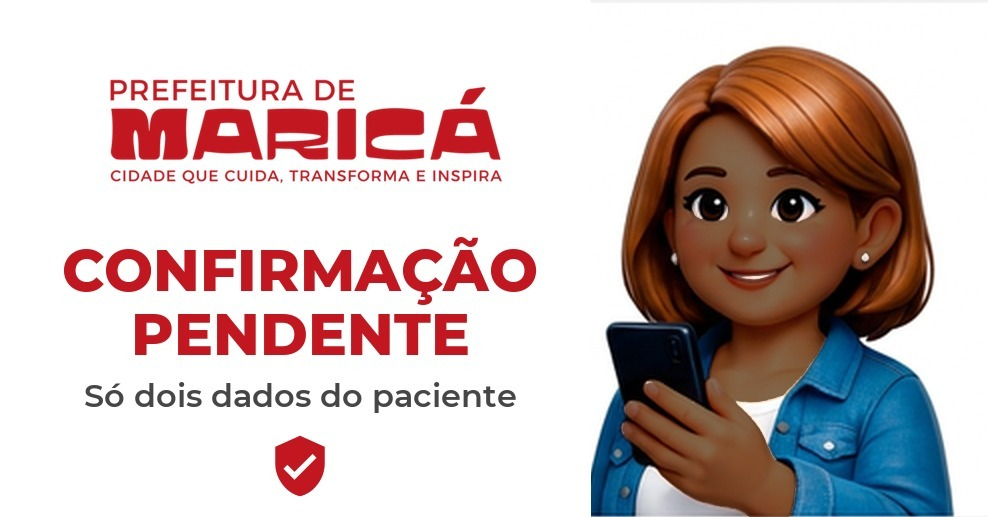
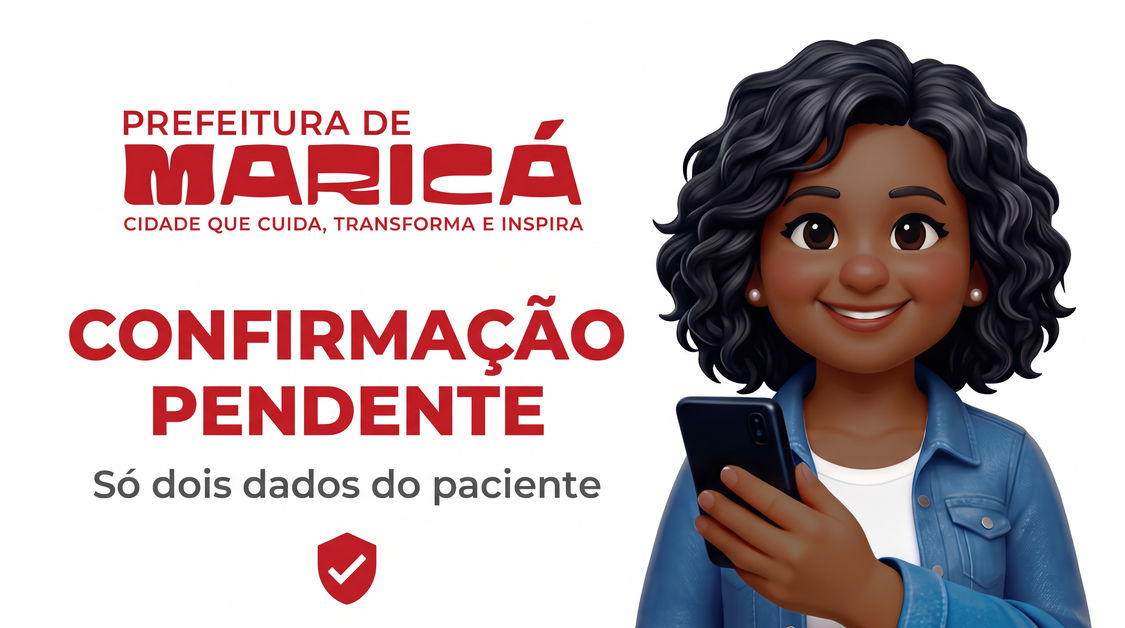
feat(whatsapp): artes do cabeçalho com a personagem Maria (v1.1.41)
Todas as artes das mensagens automáticas trocadas pela personagem Maria
(cabelo preto cacheado), geradas a partir da referência aprovada. Padrão
único: JPEG 1125x628, até 100 KB; a mais enviada (consultas e exames)
deixa de ser a de 494 px.

A arte de cada modelo agora é escolhida no painel do Automais.Zap
(Templates): os 13 modelos com foto no cabeçalho já estão com a arte nova
lá desde 22/10. As cópias em public/mensagens ficam como reserva para
quando o catálogo do Zap não responde.

Saem do app as seis artes que nenhum modelo usava: as três variações de
cancelamento não escolhidas e a outra cor de cada momento do transporte
(agendado e véspera ficaram na vermelha, cancelado na branca).

Docs do transporte e da confirmação atualizados; no Manual, a dica de
"modelo com imagem sem arte" passa a apontar para o painel do Zap.

diff --git a/docs/modulos/tfd/mensagens-whatsapp.html b/docs/modulos/tfd/mensagens-whatsapp.html
@@ -29,13 +29,13 @@ img{max-width:100%;height:auto;border-radius:8px;border:1px solid var(--border);
 <h1>Transporte de Pacientes — modelos de mensagem do WhatsApp</h1>
 <p>Seis modelos cadastrados e <strong>aprovados</strong> na Meta em 29/09/2026 (WABA da Secretaria de Saúde de Maricá): três momentos do transporte, cada um em duas versões — <strong>completa</strong> (número já verificado) e <strong>sem dados do paciente</strong> (número ainda não verificado). O envio automático ainda não está ligado no sistema; este documento é a referência do que foi cadastrado, para a implementação.</p>
 <h2>Situação na Meta</h2>
-<div class="tw"><table><thead><tr><th>Modelo</th><th>Status</th><th>Arte cadastrada</th><th>Rodapé</th></tr></thead><tbody>
-<tr><td><code>transporte_agendado_anonimo</code></td><td>aprovado</td><td>vermelha</td><td>sim</td></tr>
-<tr><td><code>transporte_agendado</code></td><td>aprovado</td><td>branca</td><td>sim</td></tr>
-<tr><td><code>transporte_horario_anonimo</code></td><td>aprovado</td><td>vermelha</td><td>não</td></tr>
-<tr><td><code>transporte_horario</code></td><td>aprovado</td><td>branca</td><td>sim</td></tr>
-<tr><td><code>transporte_cancelado_anonimo</code></td><td>aprovado</td><td>branca</td><td>sim</td></tr>
-<tr><td><code>transporte_cancelado</code></td><td>aprovado</td><td>vermelha</td><td>sim</td></tr>
+<div class="tw"><table><thead><tr><th>Modelo</th><th>Status</th><th>Arte cadastrada (amostra)</th><th>Arte que vai no envio</th><th>Rodapé</th></tr></thead><tbody>
+<tr><td><code>transporte_agendado_anonimo</code></td><td>aprovado</td><td>vermelha</td><td>vermelha</td><td>sim</td></tr>
+<tr><td><code>transporte_agendado</code></td><td>aprovado</td><td>branca</td><td>vermelha</td><td>sim</td></tr>
+<tr><td><code>transporte_horario_anonimo</code></td><td>aprovado</td><td>vermelha</td><td>vermelha</td><td>não</td></tr>
+<tr><td><code>transporte_horario</code></td><td>aprovado</td><td>branca</td><td>vermelha</td><td>sim</td></tr>
+<tr><td><code>transporte_cancelado_anonimo</code></td><td>aprovado</td><td>branca</td><td>branca</td><td>sim</td></tr>
+<tr><td><code>transporte_cancelado</code></td><td>aprovado</td><td>vermelha</td><td>branca</td><td>sim</td></tr>
 </tbody></table></div>
 <p>Todos: categoria <strong>Utilidade</strong>, idioma <strong>Português (BR)</strong>, cabeçalho de <strong>imagem</strong>, botões de <strong>resposta rápida</strong>. Rodapé (quando há): <code>Para mais informações acesse: https://app.smsmarica.online</code>.</p>
 <h2>Quem recebe o quê</h2>
@@ -52,7 +52,7 @@ img{max-width:100%;height:auto;border-radius:8px;border:1px solid var(--border);
 <hr>
 <h2>1. <code>transporte_agendado_anonimo</code> — agendado, sem dados do paciente</h2>
 <p>Quando o transporte é marcado e o número <strong>não</strong> é verificado. <strong>Aprovado.</strong></p>
-<p><strong>Cabeçalho (imagem):</strong> <code>transporte-agendado-vermelho.jpg</code></p>
+<p><strong>Cabeçalho (imagem):</strong> amostra cadastrada <code>transporte-agendado-vermelho.jpg</code> · no envio vai <code>transporte-agendado-vermelho.jpg</code> (escolhida no Automais.Zap)</p>
 <p><strong>Corpo:</strong></p>
 <pre><code>Olá *{{1}}*, esse é o canal oficial do *Alô Maricá* da Secretaria Municipal de Saúde.
 
@@ -69,7 +69,7 @@ Para ver os detalhes e confirmar se você vai utilizar o transporte, toque em *Q
 <hr>
 <h2>2. <code>transporte_agendado</code> — agendado, completo</h2>
 <p>Quando o transporte é marcado e o número <strong>é</strong> verificado (ou logo depois que a pessoa se verifica). <strong>Aprovado.</strong></p>
-<p><strong>Cabeçalho (imagem):</strong> <code>transporte-agendado-branco.jpg</code></p>
+<p><strong>Cabeçalho (imagem):</strong> amostra cadastrada <code>transporte-agendado-branco.jpg</code> · no envio vai <code>transporte-agendado-vermelho.jpg</code> (escolhida no Automais.Zap)</p>
 <p><strong>Corpo:</strong></p>
 <pre><code>Olá *{{1}}*, esse é o canal oficial do *Alô Maricá* da Secretaria Municipal de Saúde.
 
@@ -90,7 +90,7 @@ Você vai utilizar o transporte? Toque em um dos botões abaixo.</code></pre>
 <hr>
 <h2>3. <code>transporte_horario_anonimo</code> — véspera, sem dados do paciente</h2>
 <p>Um dia antes, com a rota gerada, quando o número <strong>ainda não</strong> é verificado. <strong>Aprovado.</strong></p>
-<p><strong>Cabeçalho (imagem):</strong> <code>transporte-horario-vermelho.jpg</code></p>
+<p><strong>Cabeçalho (imagem):</strong> amostra cadastrada <code>transporte-horario-vermelho.jpg</code> · no envio vai <code>transporte-horario-vermelho.jpg</code> (escolhida no Automais.Zap)</p>
 <p><strong>Corpo:</strong></p>
 <pre><code>Olá *{{1}}*, esse é o canal oficial do *Alô Maricá* da Secretaria Municipal de Saúde.
 
@@ -105,7 +105,7 @@ Para ver a previsão de busca e de retorno e confirmar se você vai utilizar o t
 <hr>
 <h2>4. <code>transporte_horario</code> — véspera, completo</h2>
 <p>Um dia antes, com a rota gerada, para número verificado. <strong>Aprovado.</strong></p>
-<p><strong>Cabeçalho (imagem):</strong> <code>transporte-horario-branco.jpg</code></p>
+<p><strong>Cabeçalho (imagem):</strong> amostra cadastrada <code>transporte-horario-branco.jpg</code> · no envio vai <code>transporte-horario-vermelho.jpg</code> (escolhida no Automais.Zap)</p>
 <p><strong>Corpo:</strong></p>
 <pre><code>Olá *{{1}}*, esse é o canal oficial do *Alô Maricá* da Secretaria Municipal de Saúde.
 
@@ -137,7 +137,7 @@ Você vai utilizar o transporte? Toque em um dos botões abaixo.</code></pre>
 <hr>
 <h2>5. <code>transporte_cancelado_anonimo</code> — cancelado, sem dados do paciente</h2>
 <p>Quando a Secretaria cancela o transporte e o número <strong>não</strong> é verificado. <strong>Aprovado.</strong></p>
-<p><strong>Cabeçalho (imagem):</strong> <code>transporte-cancelado-branco.jpg</code></p>
+<p><strong>Cabeçalho (imagem):</strong> amostra cadastrada <code>transporte-cancelado-branco.jpg</code> · no envio vai <code>transporte-cancelado-branco.jpg</code> (escolhida no Automais.Zap)</p>
 <p><strong>Corpo:</strong></p>
 <pre><code>Olá *{{1}}*, esse é o canal oficial do *Alô Maricá* da Secretaria Municipal de Saúde.
 
@@ -152,7 +152,7 @@ Para ver os detalhes, toque em *Quero mais informações*.</code></pre>
 <hr>
 <h2>6. <code>transporte_cancelado</code> — cancelado, completo</h2>
 <p>Quando a Secretaria cancela o transporte e o número <strong>é</strong> verificado. <strong>Aprovado.</strong></p>
-<p><strong>Cabeçalho (imagem):</strong> <code>transporte-cancelado-vermelho.jpg</code></p>
+<p><strong>Cabeçalho (imagem):</strong> amostra cadastrada <code>transporte-cancelado-vermelho.jpg</code> · no envio vai <code>transporte-cancelado-branco.jpg</code> (escolhida no Automais.Zap)</p>
 <p><strong>Corpo:</strong></p>
 <pre><code>Olá *{{1}}*, esse é o canal oficial do *Alô Maricá* da Secretaria Municipal de Saúde.
 
@@ -168,14 +168,15 @@ Comunicamos que o seu transporte de *{{2}}* para realizar *{{3}}* na unidade *{{
 <p><strong>Botões (resposta rápida):</strong> <code>Estou ciente</code> · <code>Quero mais informações</code></p>
 <hr>
 <h2>Artes do cabeçalho</h2>
-<p>Ficam em <code>SMSMais.cidadao.pwa/public/mensagens/</code>, junto das artes das consultas e exames (mesma personagem, mesma logo, mesma fonte). JPEG, 90–100 KB cada. Cada momento tem versão vermelha e branca; a tabela do início diz qual foi usada no cadastro de cada modelo.</p>
-<p>⚠ <strong>A arte do cadastro é só amostra.</strong> Modelo com foto no cabeçalho exige a imagem em <strong>cada envio</strong> (sem ela a Meta recusa com <code>(#132012)</code>), e o paciente vê a imagem que foi <strong>enviada</strong>, não a do cadastro. A cor que chega ao celular é decidida no envio — dá para padronizar sem recadastrar.</p>
-<p><strong>Transporte agendado</strong> — <code>transporte-agendado-vermelho.jpg</code> · <code>transporte-agendado-branco.jpg</code></p>
-<p><img alt="Transporte agendado, vermelho" src="../../../SMSMais.cidadao.pwa/public/mensagens/transporte-agendado-vermelho.jpg"> <img alt="Transporte agendado, branco" src="../../../SMSMais.cidadao.pwa/public/mensagens/transporte-agendado-branco.jpg"></p>
-<p><strong>Véspera — horário</strong> — <code>transporte-horario-vermelho.jpg</code> · <code>transporte-horario-branco.jpg</code></p>
-<p><img alt="Horário do transporte, vermelho" src="../../../SMSMais.cidadao.pwa/public/mensagens/transporte-horario-vermelho.jpg"> <img alt="Horário do transporte, branco" src="../../../SMSMais.cidadao.pwa/public/mensagens/transporte-horario-branco.jpg"></p>
-<p><strong>Transporte cancelado</strong> — <code>transporte-cancelado-vermelho.jpg</code> · <code>transporte-cancelado-branco.jpg</code></p>
-<p><img alt="Transporte cancelado, vermelho" src="../../../SMSMais.cidadao.pwa/public/mensagens/transporte-cancelado-vermelho.jpg"> <img alt="Transporte cancelado, branco" src="../../../SMSMais.cidadao.pwa/public/mensagens/transporte-cancelado-branco.jpg"></p>
+<p>Desde 22/10/2026 as artes são da personagem <strong>Maria</strong>, as mesmas das consultas e exames. São JPEG de 1125×628 com até 100 KB. Ficou <strong>uma cor por momento</strong>, e as duas versões de cada modelo (completa e sem dados) usam a mesma arte: agendado e véspera na vermelha, cancelado na branca.</p>
+<p><strong>Quem manda é o painel do Automais.Zap</strong> (Templates): os seis modelos já estão com a arte escolhida lá. Uma cópia de cada arte fica em <code>SMSMais.cidadao.pwa/public/mensagens/</code>, como reserva para quando o catálogo do Zap não responde. As versões na outra cor, também já com a Maria, saíram do app. Hoje elas ficam só na cópia local de trabalho de <code>docs/comunicacao/</code>, que não está no git.</p>
+<p>⚠ <strong>A arte do cadastro é só amostra.</strong> Modelo com foto no cabeçalho exige a imagem em <strong>cada envio</strong> (sem ela a Meta recusa com <code>(#132012)</code>), e o paciente vê a imagem que foi <strong>enviada</strong>, não a do cadastro. Por isso a cor que chega ao celular é a do Zap, e trocar não exige recadastrar.</p>
+<p><strong>Transporte agendado</strong> (<code>transporte_agendado</code> e <code>transporte_agendado_anonimo</code>): <code>transporte-agendado-vermelho.jpg</code></p>
+<p><img alt="Transporte agendado" src="../../../SMSMais.cidadao.pwa/public/mensagens/transporte-agendado-vermelho.jpg"></p>
+<p><strong>Véspera, com horário</strong> (<code>transporte_horario</code> e <code>transporte_horario_anonimo</code>): <code>transporte-horario-vermelho.jpg</code></p>
+<p><img alt="Horário do transporte" src="../../../SMSMais.cidadao.pwa/public/mensagens/transporte-horario-vermelho.jpg"></p>
+<p><strong>Transporte cancelado</strong> (<code>transporte_cancelado</code> e <code>transporte_cancelado_anonimo</code>): <code>transporte-cancelado-branco.jpg</code></p>
+<p><img alt="Transporte cancelado" src="../../../SMSMais.cidadao.pwa/public/mensagens/transporte-cancelado-branco.jpg"></p>
 <h2>Escolhas de texto</h2>
 <ul>
 <li><strong>"agendado", não "confirmado", na primeira mensagem.</strong> "Seu transporte está confirmado" seguido de "confirme se vai utilizar" leva a pessoa a achar que não precisa responder. "Agendado" pede a confirmação com naturalidade — é o mesmo desenho do "Seu exame foi agendado!".</li>
@@ -185,7 +186,7 @@ Comunicamos que o seu transporte de *{{2}}* para realizar *{{3}}* na unidade *{{
 </ul>
 <h2>Para a implementação</h2>
 <ul>
-<li><strong>A imagem de cada modelo tem de estar no mapa <code>ComunicacaoPaciente:ImagensCabecalho</code></strong> (appsettings). O catálogo do relay (<code>GET /comunicacoes-paciente/modelos</code>) não informa o cabeçalho de nenhum modelo hoje — os de consulta e exame só funcionam porque estão nesse mapa. Sem a entrada, o envio volta <code>(#132012)</code>.</li>
+<li><strong>A arte já está resolvida.</strong> O catálogo do Automais.Zap informa o cabeçalho de cada modelo e entrega a arte escolhida no painel. Os seis modelos do transporte estão com arte lá desde 22/10/2026. O mapa <code>ComunicacaoPaciente:ImagensCabecalho</code> é só reserva, para quando o catálogo não responde. Modelo que exige foto e não tem arte em lugar nenhum tem o envio recusado antes da Meta, com o motivo registrado.</li>
 <li><strong>De onde vem cada dado:</strong> busca = <code>SessaoDeTratamento.HoraPrevistaBusca</code> / <code>Alocacao.EtaPrevisto</code> (o atendimento não tem horário: vem do arranjo do carro); trajeto = duração da rota até a unidade; retorno = chegada + <code>TipoTratamento.TempoMedioMinutos</code> (o tempo médio é do tipo) + trajeto de volta; unidade e cidade = <code>UnidadeAtendimento</code>; veículo = <code>Veiculo</code> (modelo, cor, placa); motorista = <code>RotaDiaria.Motorista</code>; acompanhantes = <code>SessaoDeTratamento.Acompanhantes</code> (lista do paciente).</li>
 <li><strong>Botões chegam como TEXTO</strong> (resposta rápida sem payload), casados pelo contexto da mensagem respondida:</li>
 <li><em>Sim! Confirmo a utilização</em> (agendado) e <em>Sim! Quero o transporte</em> (véspera) → confirma o transporte;</li>

diff --git a/SMSMais.front/src/features/manual/conteudo/envioMensagens.tsx b/SMSMais.front/src/features/manual/conteudo/envioMensagens.tsx
@@ -613,7 +613,7 @@ export const artigoEnvioMensagens: Artigo = {
               },
               {
                 termo: 'Modelo com imagem sem arte',
-                descricao: 'Recusado antes da Meta: a arte do cabeçalho se define em Mensageria → Modelos.',
+                descricao: 'Recusado antes da Meta: a arte do cabeçalho se escolhe no painel do Automais.Zap, em Templates.',
               },
             ]}
           />

diff --git a/docs/modulos/tfd/mensagens-whatsapp.md b/docs/modulos/tfd/mensagens-whatsapp.md
@@ -7,14 +7,14 @@ documento é a referência do que foi cadastrado, para a implementação.
 
 ## Situação na Meta
 
-| Modelo | Status | Arte cadastrada | Rodapé |
-|---|---|---|---|
-| `transporte_agendado_anonimo` | aprovado | vermelha | sim |
-| `transporte_agendado` | aprovado | branca | sim |
-| `transporte_horario_anonimo` | aprovado | vermelha | não |
-| `transporte_horario` | aprovado | branca | sim |
-| `transporte_cancelado_anonimo` | aprovado | branca | sim |
-| `transporte_cancelado` | aprovado | vermelha | sim |
+| Modelo | Status | Arte cadastrada (amostra) | Arte que vai no envio | Rodapé |
+|---|---|---|---|---|
+| `transporte_agendado_anonimo` | aprovado | vermelha | vermelha | sim |
+| `transporte_agendado` | aprovado | branca | vermelha | sim |
+| `transporte_horario_anonimo` | aprovado | vermelha | vermelha | não |
+| `transporte_horario` | aprovado | branca | vermelha | sim |
+| `transporte_cancelado_anonimo` | aprovado | branca | branca | sim |
+| `transporte_cancelado` | aprovado | vermelha | branca | sim |
 
 Todos: categoria **Utilidade**, idioma **Português (BR)**, cabeçalho de **imagem**, botões de
 **resposta rápida**. Rodapé (quando há): `Para mais informações acesse: https://app.smsmarica.online`.
@@ -37,7 +37,7 @@ Todos: categoria **Utilidade**, idioma **Português (BR)**, cabeçalho de **imag
 
 Quando o transporte é marcado e o número **não** é verificado. **Aprovado.**
 
-**Cabeçalho (imagem):** `transporte-agendado-vermelho.jpg`
+**Cabeçalho (imagem):** amostra cadastrada `transporte-agendado-vermelho.jpg` · no envio vai `transporte-agendado-vermelho.jpg` (escolhida no Automais.Zap)
 
 **Corpo:**
 
@@ -65,7 +65,7 @@ Para ver os detalhes e confirmar se você vai utilizar o transporte, toque em *Q
 
 Quando o transporte é marcado e o número **é** verificado (ou logo depois que a pessoa se verifica). **Aprovado.**
 
-**Cabeçalho (imagem):** `transporte-agendado-branco.jpg`
+**Cabeçalho (imagem):** amostra cadastrada `transporte-agendado-branco.jpg` · no envio vai `transporte-agendado-vermelho.jpg` (escolhida no Automais.Zap)
 
 **Corpo:**
 
@@ -97,7 +97,7 @@ Você vai utilizar o transporte? Toque em um dos botões abaixo.
 
 Um dia antes, com a rota gerada, quando o número **ainda não** é verificado. **Aprovado.**
 
-**Cabeçalho (imagem):** `transporte-horario-vermelho.jpg`
+**Cabeçalho (imagem):** amostra cadastrada `transporte-horario-vermelho.jpg` · no envio vai `transporte-horario-vermelho.jpg` (escolhida no Automais.Zap)
 
 **Corpo:**
 
@@ -123,7 +123,7 @@ Para ver a previsão de busca e de retorno e confirmar se você vai utilizar o t
 
 Um dia antes, com a rota gerada, para número verificado. **Aprovado.**
 
-**Cabeçalho (imagem):** `transporte-horario-branco.jpg`
+**Cabeçalho (imagem):** amostra cadastrada `transporte-horario-branco.jpg` · no envio vai `transporte-horario-vermelho.jpg` (escolhida no Automais.Zap)
 
 **Corpo:**
 
@@ -166,7 +166,7 @@ Você vai utilizar o transporte? Toque em um dos botões abaixo.
 
 Quando a Secretaria cancela o transporte e o número **não** é verificado. **Aprovado.**
 
-**Cabeçalho (imagem):** `transporte-cancelado-branco.jpg`
+**Cabeçalho (imagem):** amostra cadastrada `transporte-cancelado-branco.jpg` · no envio vai `transporte-cancelado-branco.jpg` (escolhida no Automais.Zap)
 
 **Corpo:**
 
@@ -192,7 +192,7 @@ Para ver os detalhes, toque em *Quero mais informações*.
 
 Quando a Secretaria cancela o transporte e o número **é** verificado. **Aprovado.**
 
-**Cabeçalho (imagem):** `transporte-cancelado-vermelho.jpg`
+**Cabeçalho (imagem):** amostra cadastrada `transporte-cancelado-vermelho.jpg` · no envio vai `transporte-cancelado-branco.jpg` (escolhida no Automais.Zap)
 
 **Corpo:**
 
@@ -218,28 +218,30 @@ Comunicamos que o seu transporte de *{{2}}* para realizar *{{3}}* na unidade *{{
 
 ## Artes do cabeçalho
 
-Ficam em `SMSMais.cidadao.pwa/public/mensagens/`, junto das artes das consultas e exames (mesma
-personagem, mesma logo, mesma fonte). JPEG, 90–100 KB cada. Cada momento tem versão vermelha e
-branca; a tabela do início diz qual foi usada no cadastro de cada modelo.
+Desde 22/10/2026 as artes são da personagem **Maria**, as mesmas das consultas e exames. São
+JPEG de 1125×628 com até 100 KB. Ficou **uma cor por momento**, e as duas versões de cada modelo
+(completa e sem dados) usam a mesma arte: agendado e véspera na vermelha, cancelado na branca.
+
+**Quem manda é o painel do Automais.Zap** (Templates): os seis modelos já estão com a arte
+escolhida lá. Uma cópia de cada arte fica em `SMSMais.cidadao.pwa/public/mensagens/`, como reserva
+para quando o catálogo do Zap não responde. As versões na outra cor, também já com a Maria, saíram
+do app. Hoje elas ficam só na cópia local de trabalho de `docs/comunicacao/`, que não está no git.
 
 ⚠ **A arte do cadastro é só amostra.** Modelo com foto no cabeçalho exige a imagem em **cada
 envio** (sem ela a Meta recusa com `(#132012)`), e o paciente vê a imagem que foi **enviada**, não a
-do cadastro. A cor que chega ao celular é decidida no envio — dá para padronizar sem recadastrar.
+do cadastro. Por isso a cor que chega ao celular é a do Zap, e trocar não exige recadastrar.
 
-**Transporte agendado** — `transporte-agendado-vermelho.jpg` · `transporte-agendado-branco.jpg`
+**Transporte agendado** (`transporte_agendado` e `transporte_agendado_anonimo`): `transporte-agendado-vermelho.jpg`
 
-![Transporte agendado, vermelho](../../../SMSMais.cidadao.pwa/public/mensagens/transporte-agendado-vermelho.jpg)
-![Transporte agendado, branco](../../../SMSMais.cidadao.pwa/public/mensagens/transporte-agendado-branco.jpg)
+![Transporte agendado](../../../SMSMais.cidadao.pwa/public/mensagens/transporte-agendado-vermelho.jpg)
 
-**Véspera — horário** — `transporte-horario-vermelho.jpg` · `transporte-horario-branco.jpg`
+**Véspera, com horário** (`transporte_horario` e `transporte_horario_anonimo`): `transporte-horario-vermelho.jpg`
 
-![Horário do transporte, vermelho](../../../SMSMais.cidadao.pwa/public/mensagens/transporte-horario-vermelho.jpg)
-![Horário do transporte, branco](../../../SMSMais.cidadao.pwa/public/mensagens/transporte-horario-branco.jpg)
+![Horário do transporte](../../../SMSMais.cidadao.pwa/public/mensagens/transporte-horario-vermelho.jpg)
 
-**Transporte cancelado** — `transporte-cancelado-vermelho.jpg` · `transporte-cancelado-branco.jpg`
+**Transporte cancelado** (`transporte_cancelado` e `transporte_cancelado_anonimo`): `transporte-cancelado-branco.jpg`
 
-![Transporte cancelado, vermelho](../../../SMSMais.cidadao.pwa/public/mensagens/transporte-cancelado-vermelho.jpg)
-![Transporte cancelado, branco](../../../SMSMais.cidadao.pwa/public/mensagens/transporte-cancelado-branco.jpg)
+![Transporte cancelado](../../../SMSMais.cidadao.pwa/public/mensagens/transporte-cancelado-branco.jpg)
 
 ## Escolhas de texto
 
@@ -250,7 +252,7 @@ do cadastro. A cor que chega ao celular é decidida no envio — dá para padron
 
 ## Para a implementação
 
-- **A imagem de cada modelo tem de estar no mapa `ComunicacaoPaciente:ImagensCabecalho`** (appsettings). O catálogo do relay (`GET /comunicacoes-paciente/modelos`) não informa o cabeçalho de nenhum modelo hoje — os de consulta e exame só funcionam porque estão nesse mapa. Sem a entrada, o envio volta `(#132012)`.
+- **A arte já está resolvida.** O catálogo do Automais.Zap informa o cabeçalho de cada modelo e entrega a arte escolhida no painel. Os seis modelos do transporte estão com arte lá desde 22/10/2026. O mapa `ComunicacaoPaciente:ImagensCabecalho` é só reserva, para quando o catálogo não responde. Modelo que exige foto e não tem arte em lugar nenhum tem o envio recusado antes da Meta, com o motivo registrado.
 - **De onde vem cada dado:** busca = `SessaoDeTratamento.HoraPrevistaBusca` / `Alocacao.EtaPrevisto` (o atendimento não tem horário: vem do arranjo do carro); trajeto = duração da rota até a unidade; retorno = chegada + `TipoTratamento.TempoMedioMinutos` (o tempo médio é do tipo) + trajeto de volta; unidade e cidade = `UnidadeAtendimento`; veículo = `Veiculo` (modelo, cor, placa); motorista = `RotaDiaria.Motorista`; acompanhantes = `SessaoDeTratamento.Acompanhantes` (lista do paciente).
 - **Botões chegam como TEXTO** (resposta rápida sem payload), casados pelo contexto da mensagem respondida:
   - *Sim! Confirmo a utilização* (agendado) e *Sim! Quero o transporte* (véspera) → confirma o transporte;

diff --git a/docs/modulos/confirmacao-autorizacao-exame.md b/docs/modulos/confirmacao-autorizacao-exame.md
@@ -83,11 +83,14 @@ Tela `/app/confirmacoes` (módulo **65 `Confirmacoes`**; API `confirmacoes/*`), 
 > ⚠ **Modelo com FOTO no cabeçalho exige o componente de imagem em CADA envio.** A imagem que
 > aparece no modelo aprovado é só exemplo: mandar apenas o corpo faz a Meta recusar com
 > `(#132012) Parameter format does not match format in the created template`. Foi o que derrubou
-> os três modelos novos em 20/09/2026. O catálogo do relay **não** informa o formato do cabeçalho
-> (devolve nome, idioma, categoria, corpo e exemplos), então o mapa *modelo → URL pública da arte*
-> é explícito em `ComunicacaoPaciente:ImagensCabecalho`. As artes são servidas pelo app do cidadão
-> (`/mensagens/*.jpg`, JPEG ≤ 1125 px — a imagem é baixada a cada envio, pela Meta e pelo aparelho
-> do paciente). **Criou modelo novo com foto? Acrescente no mapa, senão ele falha em silêncio na fila.**
+> os três modelos novos em 20/09/2026. **Desde 22/10/2026 a arte de cada modelo é escolhida no
+> painel do Automais.Zap** (`https://smsmais.automais.com/admin/templates`, cliente Secretaria de
+> Saúde de Maricá). O catálogo do Zap informa o formato do cabeçalho e entrega a arte, num endereço
+> fixo por arquivo. O mapa `ComunicacaoPaciente:ImagensCabecalho`, que aponta para as cópias do app
+> do cidadão (`/mensagens/*.jpg`), fica como reserva para quando o catálogo não responde. As artes
+> são JPEG de 1125×628 com até 100 KB, porque a imagem é baixada a cada envio, pela Meta e pelo
+> aparelho do paciente. **Criou modelo novo com foto? Escolha a arte dele no Zap.** Sem arte em
+> lugar nenhum, o envio é recusado antes da Meta e o motivo fica registrado.
 
 > **Primeira mensagem trocada em 20/09/2026.** Era `validacao_cadastro`, que pedia os 4 dígitos do
 > CPF logo de cara e oferecia "falar com atendente" como única alternativa — e era nele que as
